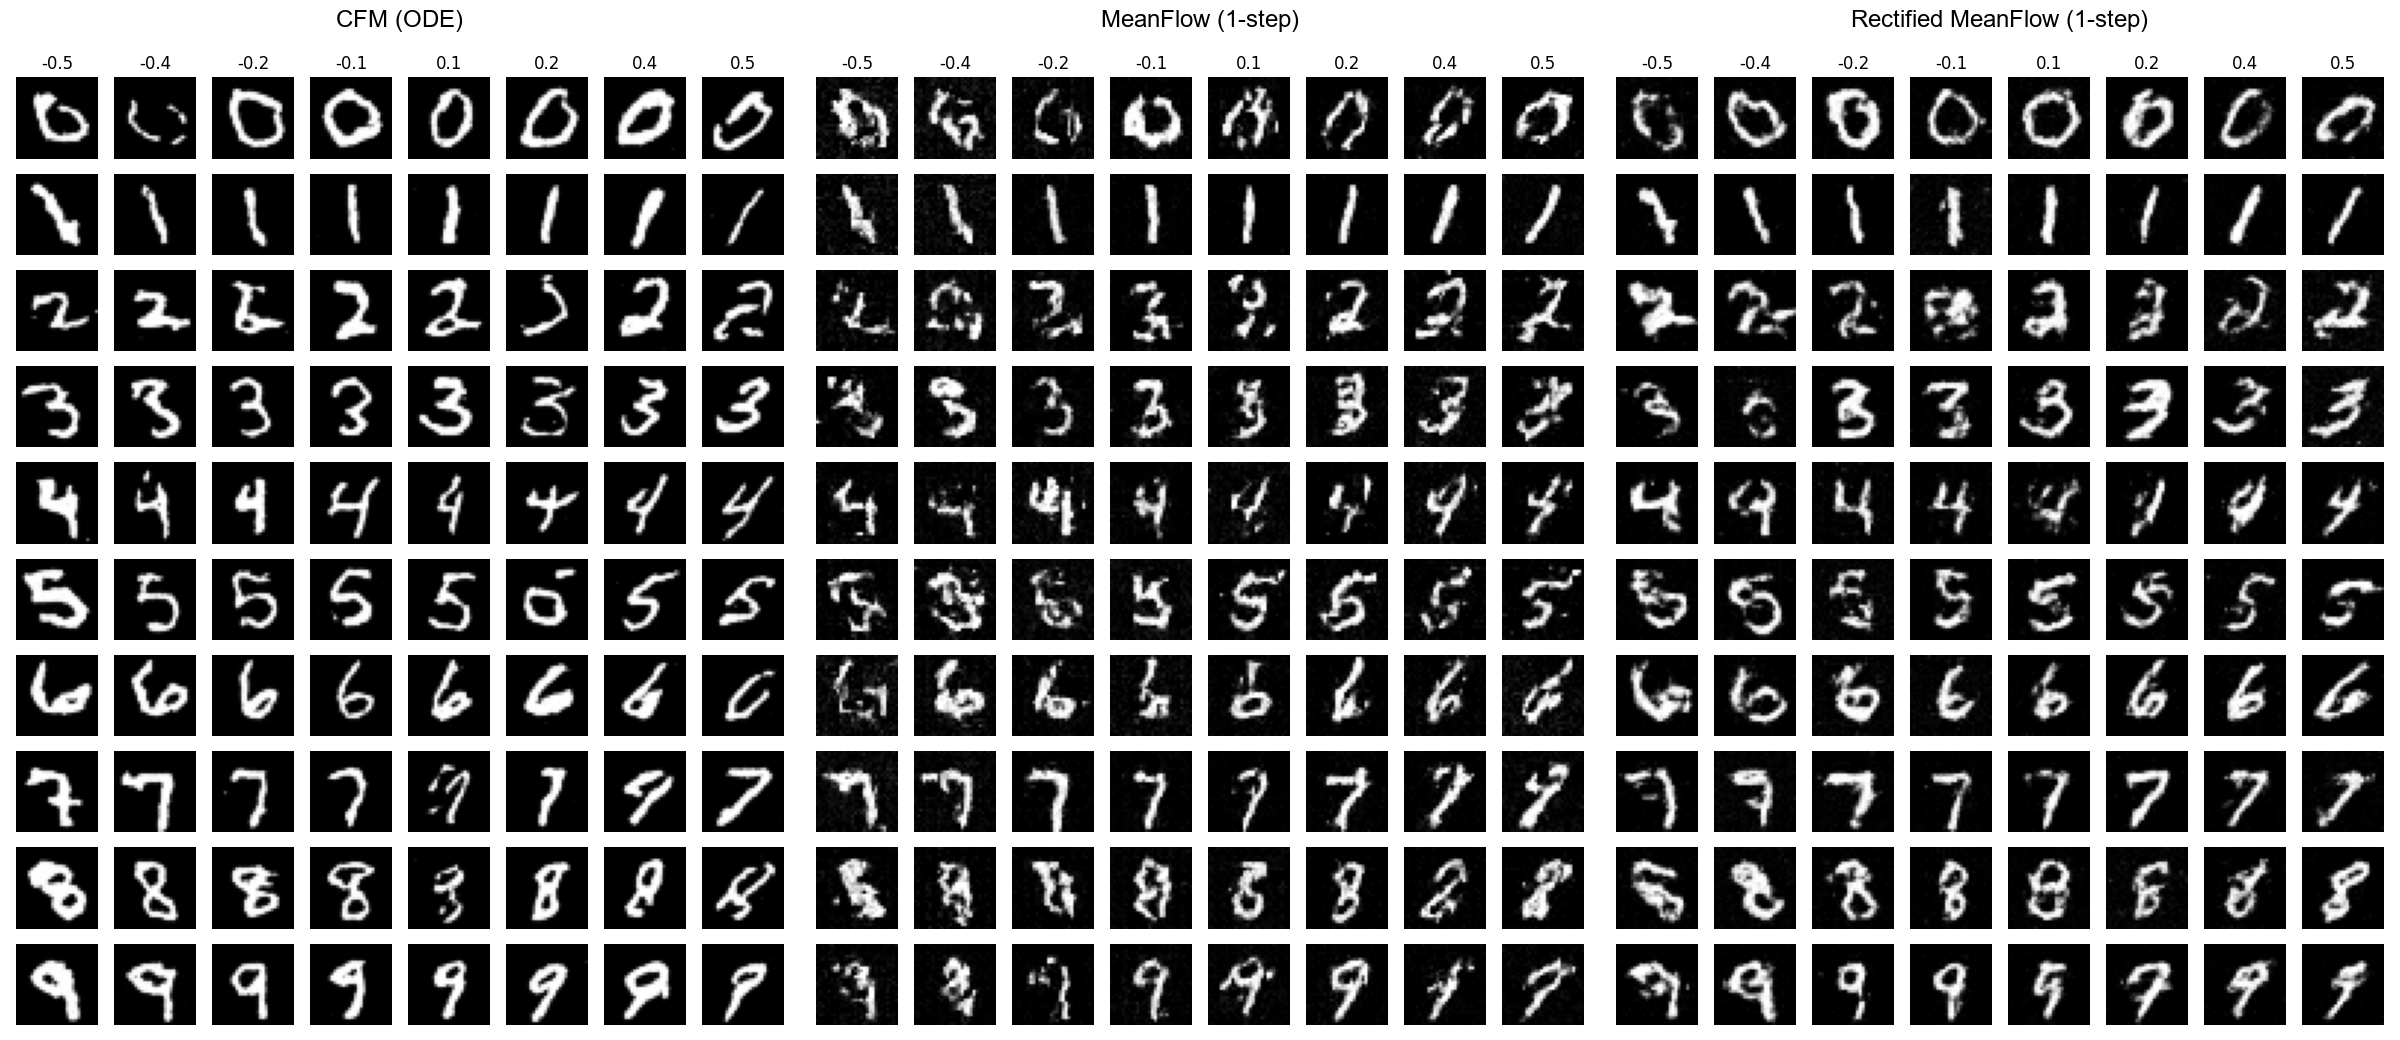
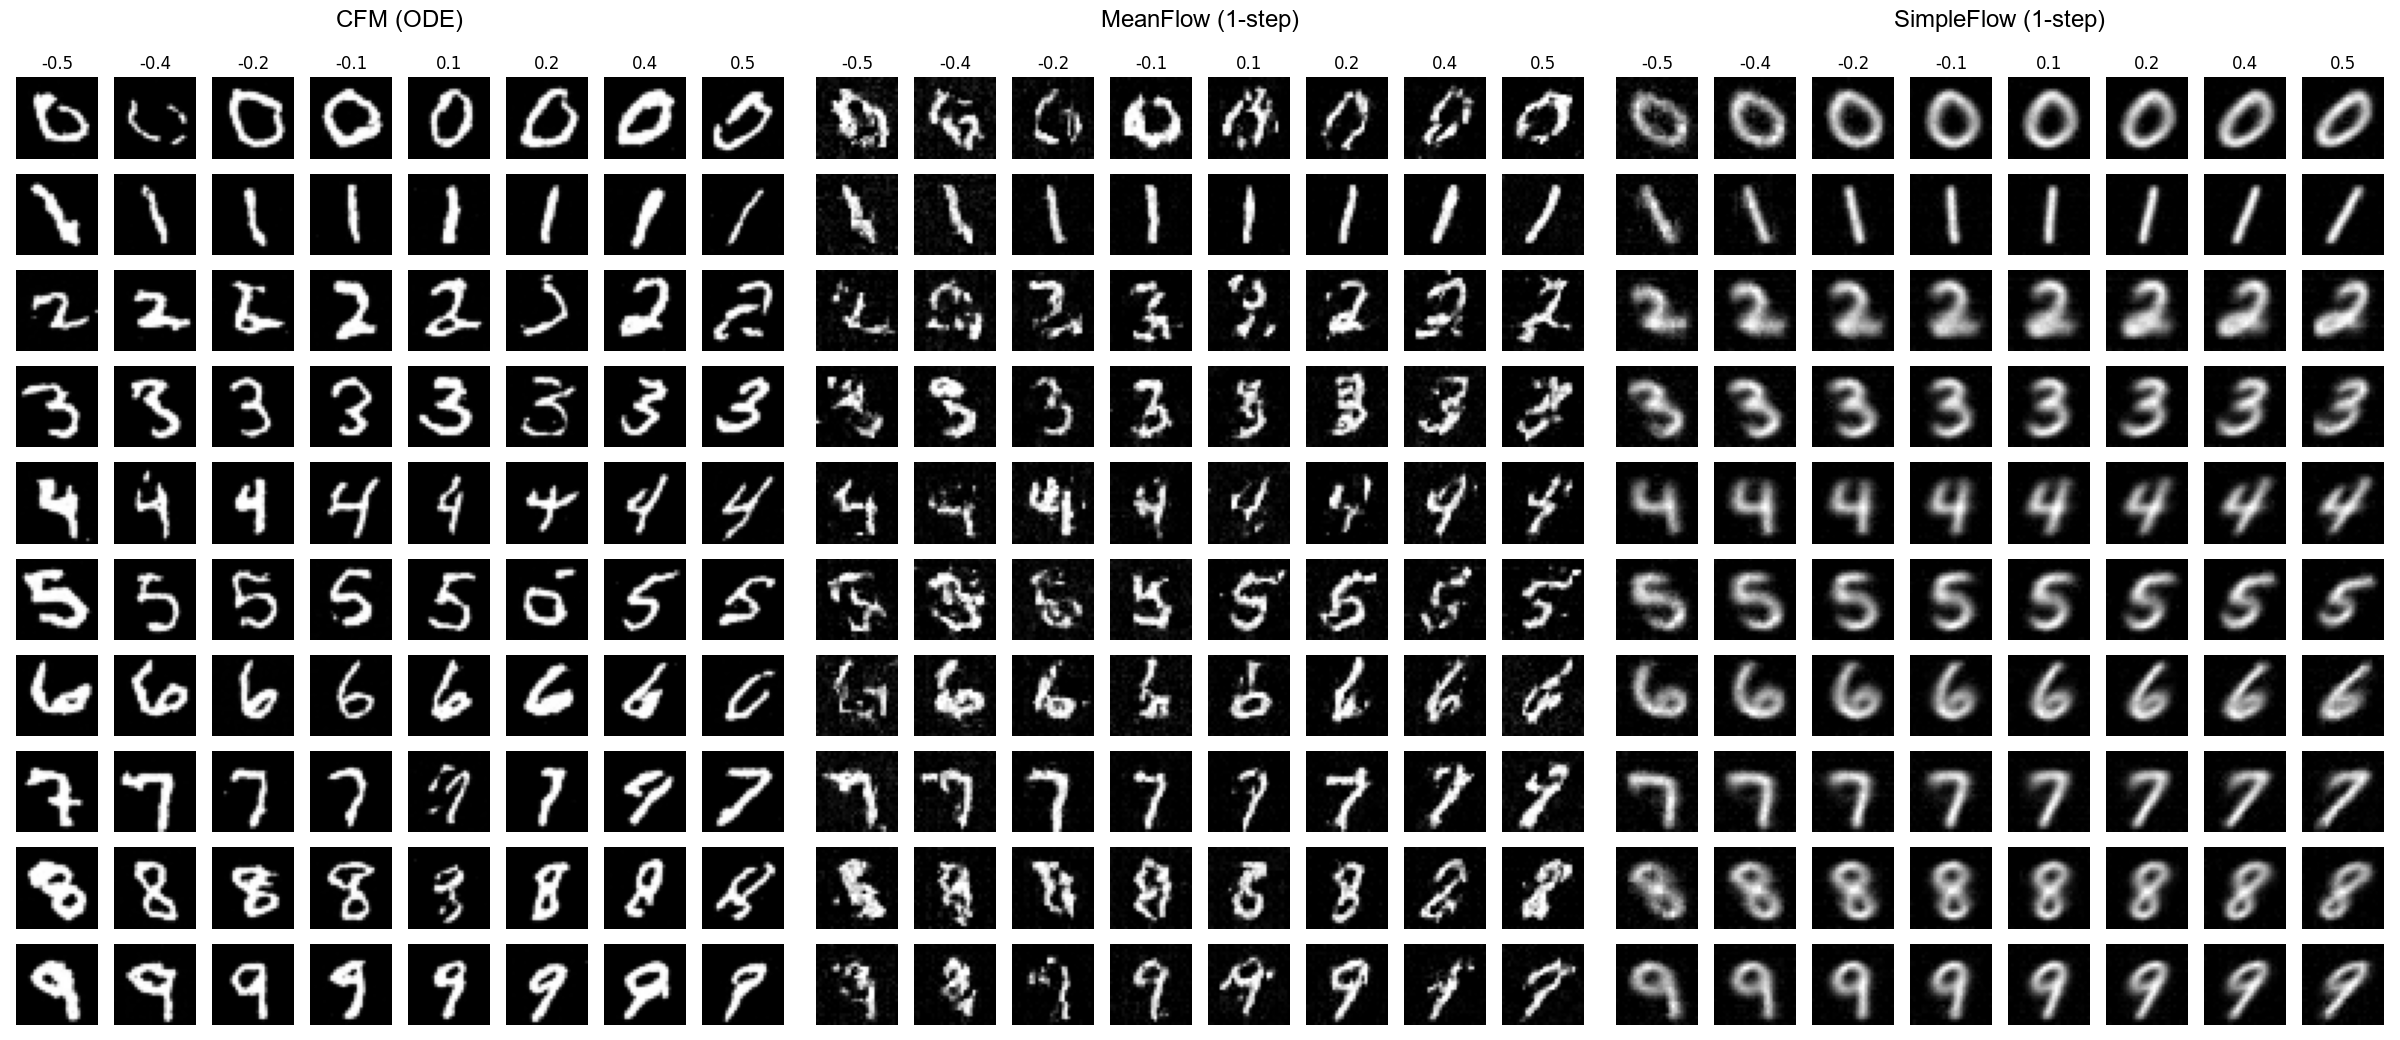
Implemented SimpleFlow

diff --git a/script/train.py b/script/train.py
@@ -28,7 +28,7 @@ LEARNING_RATE = 0.002
 WANDB_PROJECT = "flow-morphomnist"
 
 parser = argparse.ArgumentParser()
-parser.add_argument("--method", type=str, default="cfm", choices=["cfm", "mean_flow"], help="Training method: 'cfm' or 'mean_flow'")
+parser.add_argument("--method", type=str, default="cfm", choices=["cfm", "mean_flow", "simple_flow"], help="Training method: 'cfm' or 'mean_flow'")
 parser.add_argument("--P_mean_t", type=float, default=0.0)
 parser.add_argument("--P_std_t", type=float, default=1.0)
 parser.add_argument("--P_mean_r", type=float, default=0.0)
@@ -50,7 +50,7 @@ USE_AMP = torch.cuda.is_available() and DEVICE.startswith("cuda")
 scaler = torch.amp.GradScaler('cuda', enabled=USE_AMP)
 
 model_name = f"model_{args.method}.pt"
-use_time = True
+use_time = True if args.method in ["cfm", "mean_flow"] else False
 
 try:
     model = torch.load(model_name, map_location=DEVICE)
@@ -169,7 +169,7 @@ if __name__ == "__main__":
                         loss = loss / adp_wt
                         loss = loss.mean()
 
-                else:
+                elif args.method == "cfm":
                     # CFM Standard Training
                     batch_t = torch.rand(batch_x.size(0), device=DEVICE)
                     batch_noise = torch.randn_like(batch_x)
@@ -178,7 +178,13 @@ if __name__ == "__main__":
                     with autocast("cuda", enabled=USE_AMP):
                         vt = model(xt, batch_t, batch_cls, batch_slant)
                         loss = loss_fn(vt, batch_x - batch_noise)
+                elif args.method == "simple_flow":
+                    batch_t = torch.rand(batch_x.size(0), device=DEVICE)
+                    batch_noise = torch.randn_like(batch_x)
 
+                    with autocast("cuda", enabled=USE_AMP):
+                        vt = model(batch_noise, batch_t, batch_cls, batch_slant)
+                        loss = loss_fn(vt, batch_x - batch_noise)
                 optimizer.zero_grad(set_to_none=True)
                 if USE_AMP:
                     scaler.scale(loss).backward()

diff --git a/script/inference.py b/script/inference.py
@@ -17,7 +17,7 @@ from config import *
 import argparse
 
 parser = argparse.ArgumentParser()
-parser.add_argument("--method", type=str, default="cfm", choices=["cfm", "mean_flow", "mean_flow_rectified"], help="Inference method: 'cfm', 'mean_flow', or 'mean_flow_rectified'")
+parser.add_argument("--method", type=str, default="cfm", choices=["cfm", "mean_flow", "simple_flow"], help="Inference method: 'cfm', 'mean_flow', or 'simple_flow'")
 parser.add_argument("--model_path", type=str, default=None, help="Path to model checkpoint. If None, defaults to model_{method}.pt")
 args = parser.parse_args()
 
@@ -37,7 +37,7 @@ def sample(model, cls, slant):
         h = t
         v = model(x, t, cls, slant, h)
         x = x - v
-    else:
+    elif args.method == "cfm":
         # ODE integration for CFM
         if torchdiffeq is None:
              raise ImportError("torchdiffeq is required for CFM inference. Please install it.")
@@ -47,7 +47,10 @@ def sample(model, cls, slant):
             return v
         ts = torch.linspace(0, 1, steps).to(DEVICE)
         x = torchdiffeq.odeint(ode_func, x, ts, method=method, rtol=rtol, atol=atol)[-1]
-        
+    elif args.method == "simple_flow":
+        t = torch.ones(n_sample).to(DEVICE)
+        v = model(x, t, cls, slant)
+        x = x + v
     x = (x.clamp(-1, 1) + 1) / 2 # Scale to [0, 1]
     return x.detach()
 

diff --git a/script/concat_results.py b/script/concat_results.py
@@ -6,7 +6,7 @@ def concatenate_images():
     images = [
         ("inference_both_cfm.png", "CFM (ODE)"),
         ("inference_both_mean_flow.png", "MeanFlow (1-step)"),
-        ("inference_both_mean_flow_rectified.png", "Rectified MeanFlow (1-step)")
+        ("inference_both_simple_flow.png", "SimpleFlow (1-step)")
     ]
     
     loaded_imgs = []

diff --git a/README.md b/README.md
@@ -2,13 +2,14 @@
 
 This repository contains implementations of conditional generative models trained on the Morpho-MNIST dataset. It supports two methods:
 1. **Conditional Flow Matching (CFM)**: A simulation-free continuous normalizing flow method.
-2. **MeanFlow**: A method for efficient one-step generation by learning the average velocity field.
+2. **MeanFlow**: A method for effective one-step generation using JVP-based loss.
+3. **SimpleFlow**: A novel simplified flow method for one-step generation.
 
 The models incorporate two forms of conditioning: discrete digit identity and a continuous slant descriptor extracted from the morphological annotations.
 
 ### Inference Results
 
-Comparison between **Conditional Flow Matching (CFM)** (ODE integration), **MeanFlow** (1-step), and **Rectified MeanFlow** (1-step after distillation).
+Comparison between **Conditional Flow Matching (CFM)** (ODE integration), **MeanFlow** (1-step), and **SimpleFlow** (1-step).
 
 ![Inference Comparison](inference_comparison.png)
 
@@ -34,6 +35,9 @@ python script/train.py --method cfm
 
 # Train MeanFlow (One-step generation)
 python script/train.py --method mean_flow
+
+# Train SimpleFlow (One-step generation)
+python script/train.py --method simple_flow
 ```
 
 Some notes:
@@ -48,6 +52,9 @@ python script/inference.py --method cfm
 
 # Inference with MeanFlow model
 python script/inference.py --method mean_flow
+
+# Inference with SimpleFlow model
+python script/inference.py --method simple_flow
 ```
 
 The script loads `model.pt`, samples random noise vectors, and performs flow matching generation while conditioning on:
@@ -56,26 +63,6 @@ The script loads `model.pt`, samples random noise vectors, and performs flow mat
 2. A fixed digit with a sweep across slant values.
 3. A two-dimensional grid spanning digits and slants.
 
-## 5. Rectified Flow Distillation
-
-To improve the resolution of MeanFlow (1-step generation) while maintaining its speed, we can use **Rectified Flow** (or Reflow) to distill the high-quality CFM model into current MeanFlow model.
-
-1.  **Generate Rectified Dataset**: Use the trained CFM model to generate (noise, data) pairs connected by ODE trajectories.
-    ```bash
-    python script/distill.py --generate --teacher_path model_cfm.pt --save_path rectified_data.pt
-    ```
-
-2.  **Train Student MeanFlow**: Train the MeanFlow model on the rectified paths.
-    ```bash
-    python script/distill.py --train --save_path rectified_data.pt --student_path model_mean_flow_rectified.pt
-    ```
-
-3.  **Inference**:
-    You can then run inference with the new model directly:
-    ```bash
-    python script/inference.py --method mean_flow_rectified
-    ```
-
-## 6. Acknowledgement
+## 5. Acknowledgement
 The original paper for the Morpho-MNIST dataset: https://arxiv.org/pdf/1809.10780
 
